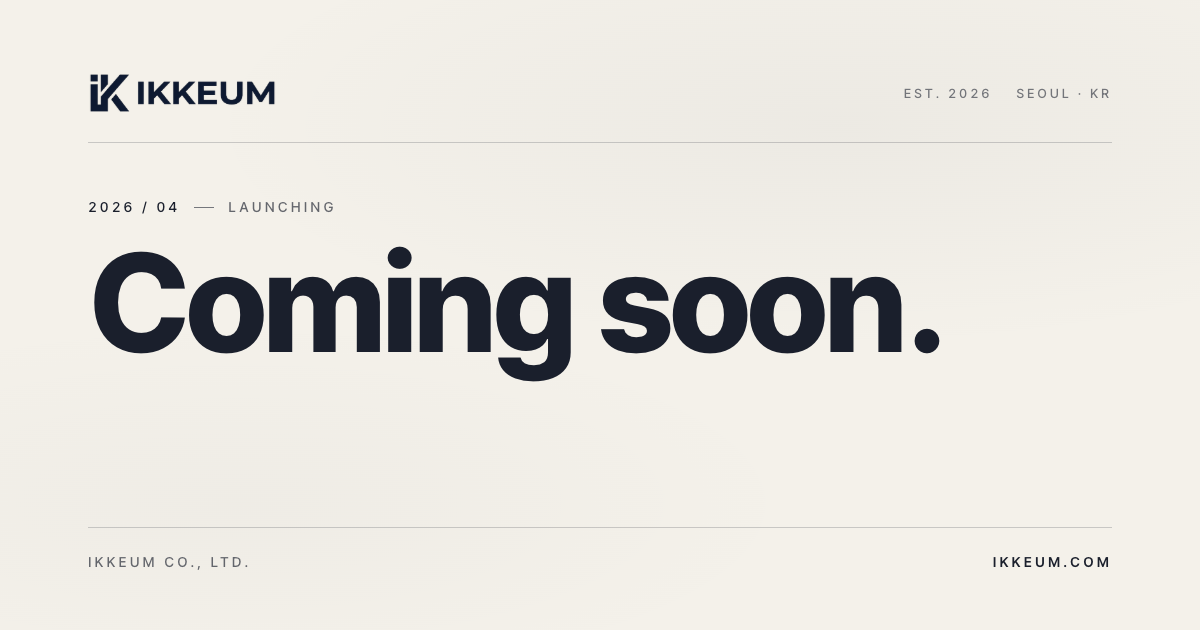
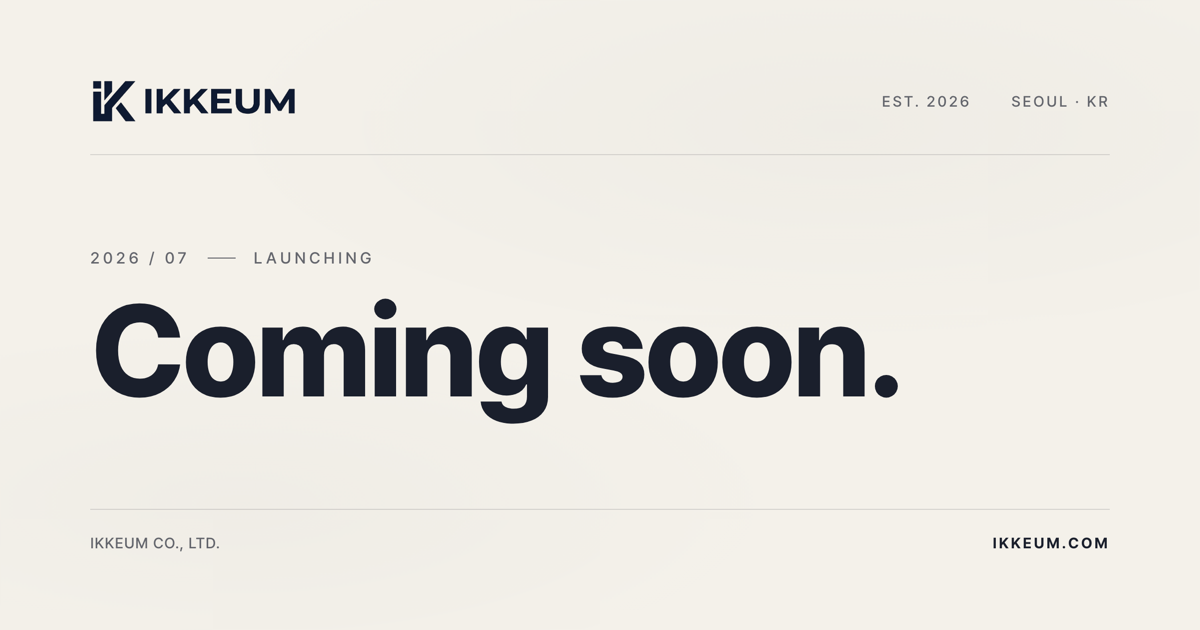
오픈 예정일 7월로 수정 (4월 → 7월)
지난 날짜(2026년 4월)를 여전히 "오픈 예정"으로 안내하던 표기를 7월로 갱신.
- index.html: 본문 메타라인, SEO description, Open Graph, Twitter 카드 메타 8곳
- static/og-card-ko.png, og-card-en.png: 공유 카드 이미지 재생성 (2026 / 07)

diff --git a/index.html b/index.html
@@ -29,7 +29,7 @@
   <title>주식회사 이끔 — 곧 만나요</title>
 
   <!-- Primary SEO -->
-  <meta name="description" content="주식회사 이끔(Ikkeum Co., Ltd.) 공식 웹사이트 · 2026년 4월 오픈 예정. AI·데이터 분석, 시스템 구축·운영, 자체 SaaS 솔루션까지, 혁신적인 기술로 사람들의 삶을 바꾸고, 모두와 함께 성장하는 미래를 이끕니다." />
+  <meta name="description" content="주식회사 이끔(Ikkeum Co., Ltd.) 공식 웹사이트 · 2026년 7월 오픈 예정. AI·데이터 분석, 시스템 구축·운영, 자체 SaaS 솔루션까지, 혁신적인 기술로 사람들의 삶을 바꾸고, 모두와 함께 성장하는 미래를 이끕니다." />
   <meta name="keywords" content="주식회사 이끔, 이끔, Ikkeum, Ikkeum Co Ltd, IK, AI, 데이터, Data, SaaS, R&amp;D, 연구개발, 시스템 구축, 시스템 운영, 클라우드, LLM, IT 파트너, 기술 파트너, 소프트웨어 개발, 혁신, 스타트업, 2026 오픈, 커밍순" />
   <meta name="author" content="주식회사 이끔" />
   <meta name="robots" content="index, follow" />
@@ -52,23 +52,23 @@
   <meta property="og:type" content="website" />
   <meta property="og:site_name" content="주식회사 이끔" />
   <meta property="og:url" content="https://ikkeum.com/" />
-  <meta property="og:title" content="주식회사 이끔 — 2026년 4월 오픈 예정" />
-  <meta property="og:description" content="혁신적인 기술로 사람들의 삶을 바꾸고, 모두와 함께 성장하는 미래를 이끕니다. 주식회사 이끔 공식 홈페이지가 2026년 4월 오픈합니다." />
+  <meta property="og:title" content="주식회사 이끔 — 2026년 7월 오픈 예정" />
+  <meta property="og:description" content="혁신적인 기술로 사람들의 삶을 바꾸고, 모두와 함께 성장하는 미래를 이끕니다. 주식회사 이끔 공식 홈페이지가 2026년 7월 오픈합니다." />
   <meta property="og:image" content="https://ikkeum.com/static/og-card-ko.png" />
   <meta property="og:image:secure_url" content="https://ikkeum.com/static/og-card-ko.png" />
   <meta property="og:image:type" content="image/png" />
   <meta property="og:image:width" content="1200" />
   <meta property="og:image:height" content="630" />
-  <meta property="og:image:alt" content="주식회사 이끔 — 곧 만나요. 2026년 4월 오픈 예정" />
+  <meta property="og:image:alt" content="주식회사 이끔 — 곧 만나요. 2026년 7월 오픈 예정" />
   <meta property="og:locale" content="ko_KR" />
   <meta property="og:locale:alternate" content="en_US" />
 
   <!-- Twitter -->
   <meta name="twitter:card" content="summary_large_image" />
-  <meta name="twitter:title" content="Ikkeum Co., Ltd. — Launching April 2026" />
-  <meta name="twitter:description" content="We transform lives through innovative technology, leading a future where everyone grows together. Ikkeum's official website launches April 2026." />
+  <meta name="twitter:title" content="Ikkeum Co., Ltd. — Launching July 2026" />
+  <meta name="twitter:description" content="We transform lives through innovative technology, leading a future where everyone grows together. Ikkeum's official website launches July 2026." />
   <meta name="twitter:image" content="https://ikkeum.com/static/og-card-en.png" />
-  <meta name="twitter:image:alt" content="Ikkeum Co., Ltd. — Coming soon. Launching April 2026" />
+  <meta name="twitter:image:alt" content="Ikkeum Co., Ltd. — Coming soon. Launching July 2026" />
 
   <!-- Structured Data: Organization -->
   <script type="application/ld+json">
@@ -873,7 +873,7 @@
     <!-- ── Main editorial body ─────────────────────────── -->
     <main class="main">
       <p class="meta-line">
-        <span class="meta-line__num">2026 / 04</span>
+        <span class="meta-line__num">2026 / 07</span>
         <span class="meta-line__bar" aria-hidden="true"></span>
         <span data-lang-content="ko">오픈 예정</span>
         <span data-lang-content="en">Launching</span>
